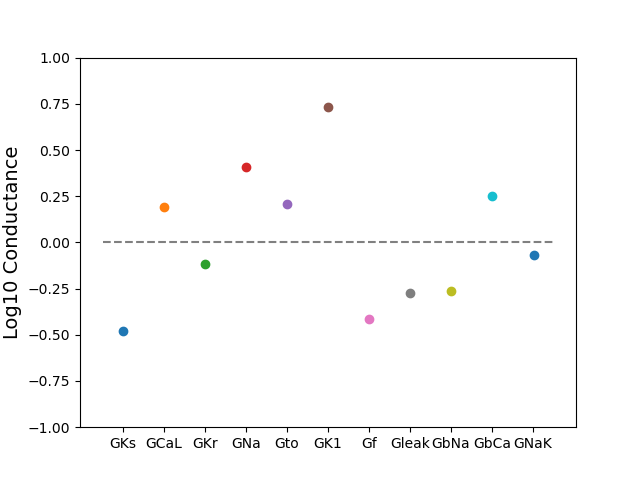
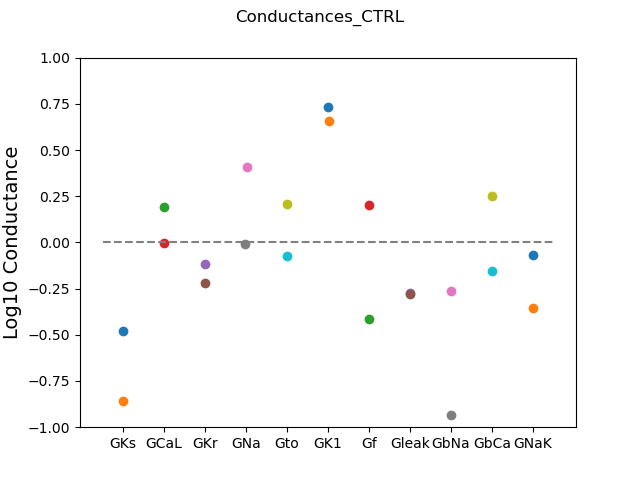
new

diff --git a/GA_cond/plot_GA.py b/GA_cond/plot_GA.py
@@ -14,10 +14,10 @@ from scipy.signal import find_peaks
 t, v = baseline_run()
 plt.plot(t, v, '-k', label = 'Baseline')
 
-ind_1, ind_3, ind_4, ind_ctrl1 = ind_excel()
+ind_1, ind_3, ind_4, ind_ctrl1, ind_ctrl2 = ind_excel()
 
 pop_HCM = [ind_1, ind_3, ind_4]
-pop_CTRL = [ind_ctrl1]
+pop_CTRL = [ind_ctrl1, ind_ctrl2]
 
 for i in list(range(0,len(pop_HCM))):
     t, v = plot_GA(pop_HCM[i])
@@ -43,10 +43,10 @@ plt.show()
 ############ PLOT BEST ERROR HCM ################
 gen = [i for i in list(range(1,80))]
 
-err_1, err_2, err_3, err_4, err_ctrl1 = err_excel()
+err_1, err_2, err_3, err_4, err_ctrl1, err_ctrl2 = err_excel()
 
 err_HCM = [err_1, err_2, err_3, err_4]
-err_CTRL = [err_ctrl1]
+err_CTRL = [err_ctrl1, err_ctrl2]
 
 for i in list(range(0,len(err_HCM))):
     best_err = list(err_HCM[i]['Best Error'])

diff --git a/GA_cond/functions.py b/GA_cond/functions.py
@@ -164,7 +164,10 @@ def ind_excel():
     ind_ctrl1 = pd.read_excel('Best_ind_ctrl1.xlsx')
     ind_ctrl1 = ind_ctrl1.to_dict('index')
 
-    return ind_1, ind_3, ind_4, ind_ctrl1
+    ind_ctrl2 = pd.read_excel('Best_ind_ctrl2.xlsx')
+    ind_ctrl2 = ind_ctrl2.to_dict('index')
+
+    return ind_1, ind_3, ind_4, ind_ctrl1, ind_ctrl2
 
 #%%
 def err_excel():
@@ -179,4 +182,6 @@ def err_excel():
 
     err_ctrl1 = pd.read_excel('Errors_ctrl1.xlsx')
 
-    return err_1, err_2, err_3, err_4, err_ctrl1
+    err_ctrl2 = pd.read_excel('Errors_ctrl2.xlsx')
+
+    return err_1, err_2, err_3, err_4, err_ctrl1, err_ctrl2
